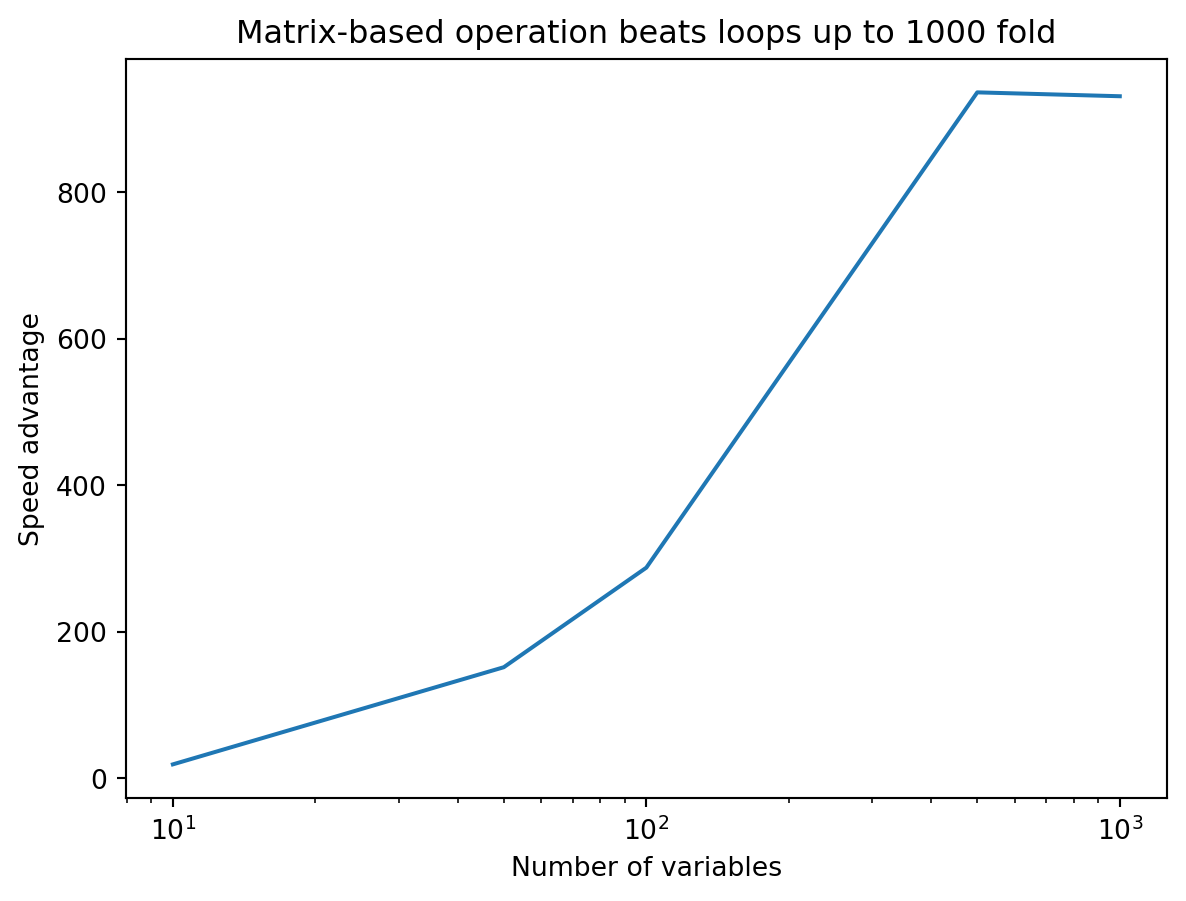
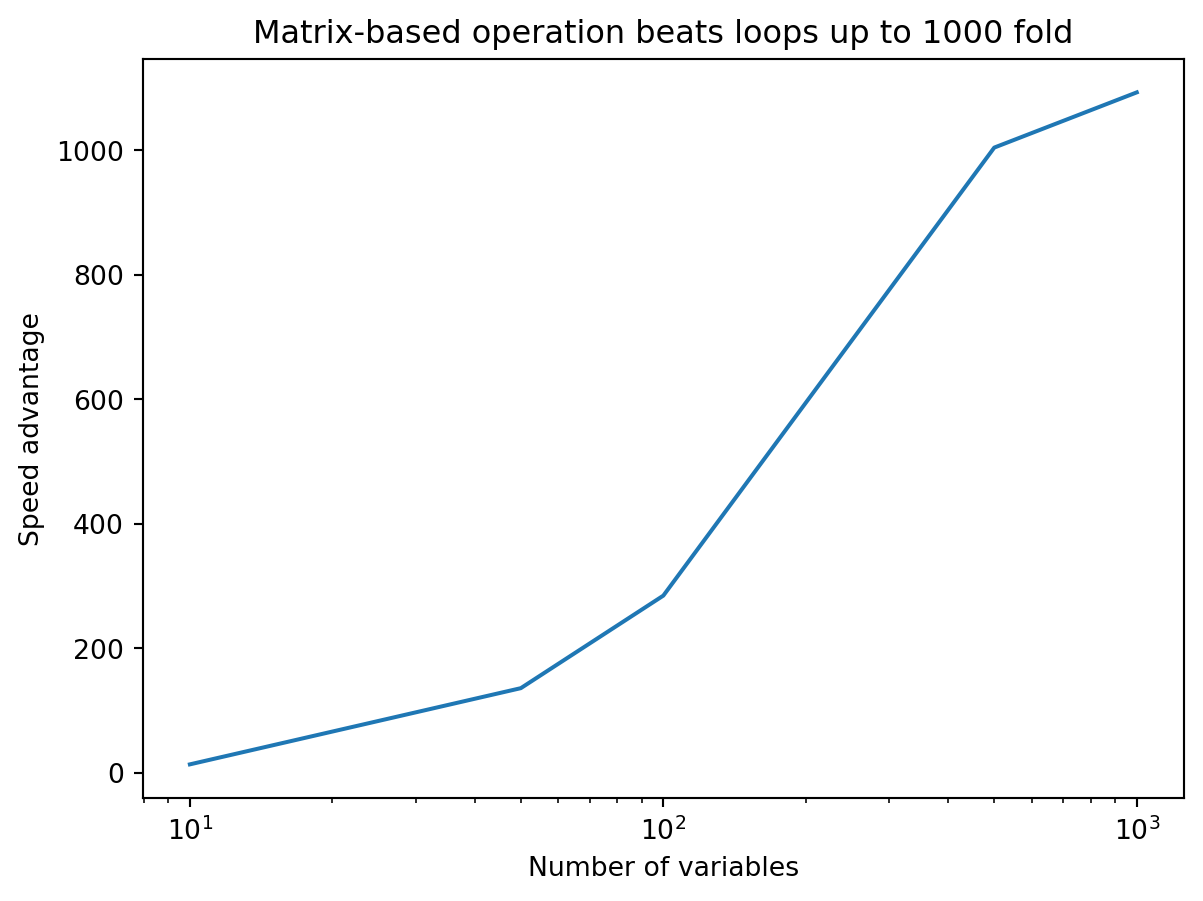
added giscus

diff --git a/docs/posts/masked-arrays/index.html b/docs/posts/masked-arrays/index.html
@@ -174,10 +174,10 @@ code span.wa { color: #60a0b0; font-weight: bold; font-style: italic; } /* Warni
     <div class="quarto-title column-body">
       <h1 class="title">Why masked arrays are useful for data science. Part 1</h1>
                                 <div class="quarto-categories">
-                <div class="quarto-category">numpy</div>
-                <div class="quarto-category">missing data</div>
-                <div class="quarto-category">vectorization</div>
                 <div class="quarto-category">analysis</div>
+                <div class="quarto-category">missing data</div>
+                <div class="quarto-category">numpy</div>
+                <div class="quarto-category">vectorization</div>
               </div>
                   </div>
   </div>
@@ -337,7 +337,7 @@ Person 8       1       1       1       0</code></pre>
 <span id="cb12-6"><a href="#cb12-6" aria-hidden="true" tabindex="-1"></a>toc <span class="op">=</span> perf_counter()</span>
 <span id="cb12-7"><a href="#cb12-7" aria-hidden="true" tabindex="-1"></a><span class="bu">print</span>(<span class="ss">f"Computing all pairwise percentage agreements took </span><span class="sc">{</span>toc<span class="op">-</span>tic<span class="sc">:0.4f}</span><span class="ss"> seconds."</span>)</span></code><button title="Copy to Clipboard" class="code-copy-button"><i class="bi"></i></button></pre></div>
 <div class="cell-output cell-output-stdout">
-<pre><code>Computing all pairwise percentage agreements took 2.3063 seconds.</code></pre>
+<pre><code>Computing all pairwise percentage agreements took 1.8205 seconds.</code></pre>
 </div>
 </div>
 <p>This may not seem so bad. But consider that</p>
@@ -448,28 +448,28 @@ new = \lvert old-1 \rvert
   <tbody>
     <tr>
       <th>10</th>
-      <td>0.000204</td>
-      <td>0.000224</td>
+      <td>0.000194</td>
+      <td>0.000174</td>
     </tr>
     <tr>
       <th>50</th>
-      <td>0.006444</td>
-      <td>0.000238</td>
+      <td>0.005319</td>
+      <td>0.000231</td>
     </tr>
     <tr>
       <th>100</th>
-      <td>0.026645</td>
-      <td>0.000735</td>
+      <td>0.022124</td>
+      <td>0.000632</td>
     </tr>
     <tr>
       <th>500</th>
-      <td>0.523519</td>
-      <td>0.007336</td>
+      <td>0.480564</td>
+      <td>0.006812</td>
     </tr>
     <tr>
       <th>1000</th>
-      <td>2.060766</td>
-      <td>0.024694</td>
+      <td>1.912239</td>
+      <td>0.021706</td>
     </tr>
   </tbody>
 </table>
@@ -705,57 +705,38 @@ Item 4     0.0     NaN     NaN     2.0</code></pre>
 <span id="cb38-4"><a href="#cb38-4" aria-hidden="true" tabindex="-1"></a></span>
 <span id="cb38-5"><a href="#cb38-5" aria-hidden="true" tabindex="-1"></a>seconds_missing <span class="op">=</span> np.zeros((<span class="bu">len</span>(number_variables_large), <span class="dv">2</span>))</span>
 <span id="cb38-6"><a href="#cb38-6" aria-hidden="true" tabindex="-1"></a><span class="cf">for</span> i, nvl <span class="kw">in</span> <span class="bu">enumerate</span>(number_variables_large):</span>
-<span id="cb38-7"><a href="#cb38-7" aria-hidden="true" tabindex="-1"></a>    <span class="bu">print</span>(<span class="bu">str</span>(i) <span class="op">+</span> <span class="st">"</span><span class="ch">\n</span><span class="st">"</span>)</span>
-<span id="cb38-8"><a href="#cb38-8" aria-hidden="true" tabindex="-1"></a>    X <span class="op">=</span> np.random.choice(responses, </span>
-<span id="cb38-9"><a href="#cb38-9" aria-hidden="true" tabindex="-1"></a>                        size<span class="op">=</span>(number_samples_large, nvl), </span>
-<span id="cb38-10"><a href="#cb38-10" aria-hidden="true" tabindex="-1"></a>                        replace<span class="op">=</span><span class="va">True</span>,</span>
-<span id="cb38-11"><a href="#cb38-11" aria-hidden="true" tabindex="-1"></a>                        p<span class="op">=</span>probs)</span>
-<span id="cb38-12"><a href="#cb38-12" aria-hidden="true" tabindex="-1"></a>    tic <span class="op">=</span> perf_counter()<span class="op">;</span> percent_agreement <span class="op">=</span> pa_loop_missing(X)<span class="op">;</span> toc <span class="op">=</span> perf_counter()</span>
-<span id="cb38-13"><a href="#cb38-13" aria-hidden="true" tabindex="-1"></a>    seconds_loop <span class="op">=</span> toc<span class="op">-</span>tic</span>
-<span id="cb38-14"><a href="#cb38-14" aria-hidden="true" tabindex="-1"></a>    tic <span class="op">=</span> perf_counter()<span class="op">;</span> percent_agreement <span class="op">=</span> pa_vect_missing(X)<span class="op">;</span> toc <span class="op">=</span> perf_counter()</span>
-<span id="cb38-15"><a href="#cb38-15" aria-hidden="true" tabindex="-1"></a>    seconds_vect <span class="op">=</span> toc<span class="op">-</span>tic</span>
-<span id="cb38-16"><a href="#cb38-16" aria-hidden="true" tabindex="-1"></a>    seconds_missing[i, <span class="dv">0</span>] <span class="op">=</span> seconds_loop</span>
-<span id="cb38-17"><a href="#cb38-17" aria-hidden="true" tabindex="-1"></a>    seconds_missing[i, <span class="dv">1</span>] <span class="op">=</span> seconds_vect</span>
-<span id="cb38-18"><a href="#cb38-18" aria-hidden="true" tabindex="-1"></a></span>
-<span id="cb38-19"><a href="#cb38-19" aria-hidden="true" tabindex="-1"></a>df_missing <span class="op">=</span> pd.DataFrame(seconds_missing, </span>
-<span id="cb38-20"><a href="#cb38-20" aria-hidden="true" tabindex="-1"></a>                          columns<span class="op">=</span>[<span class="st">'loop'</span>,<span class="st">'vectorized'</span>],</span>
-<span id="cb38-21"><a href="#cb38-21" aria-hidden="true" tabindex="-1"></a>                          index<span class="op">=</span>number_variables_large)</span>
-<span id="cb38-22"><a href="#cb38-22" aria-hidden="true" tabindex="-1"></a></span>
-<span id="cb38-23"><a href="#cb38-23" aria-hidden="true" tabindex="-1"></a>df.plot(loglog<span class="op">=</span><span class="va">True</span>, xlabel<span class="op">=</span><span class="st">"Number of variables"</span>, ylabel<span class="op">=</span><span class="st">"Seconds"</span>)</span>
-<span id="cb38-24"><a href="#cb38-24" aria-hidden="true" tabindex="-1"></a>plt.show()</span></code><button title="Copy to Clipboard" class="code-copy-button"><i class="bi"></i></button></pre></div>
-<div class="cell-output cell-output-stdout">
-<pre><code>0
-
-1
-</code></pre>
-</div>
-<div class="cell-output cell-output-stdout">
-<pre><code>2
-</code></pre>
-</div>
-<div class="cell-output cell-output-stdout">
-<pre><code>3
-</code></pre>
-</div>
-<div class="cell-output cell-output-stdout">
-<pre><code>4
-</code></pre>
-</div>
+<span id="cb38-7"><a href="#cb38-7" aria-hidden="true" tabindex="-1"></a>    X <span class="op">=</span> np.random.choice(responses, </span>
+<span id="cb38-8"><a href="#cb38-8" aria-hidden="true" tabindex="-1"></a>                        size<span class="op">=</span>(number_samples_large, nvl), </span>
+<span id="cb38-9"><a href="#cb38-9" aria-hidden="true" tabindex="-1"></a>                        replace<span class="op">=</span><span class="va">True</span>,</span>
+<span id="cb38-10"><a href="#cb38-10" aria-hidden="true" tabindex="-1"></a>                        p<span class="op">=</span>probs)</span>
+<span id="cb38-11"><a href="#cb38-11" aria-hidden="true" tabindex="-1"></a>    tic <span class="op">=</span> perf_counter()<span class="op">;</span> percent_agreement <span class="op">=</span> pa_loop_missing(X)<span class="op">;</span> toc <span class="op">=</span> perf_counter()</span>
+<span id="cb38-12"><a href="#cb38-12" aria-hidden="true" tabindex="-1"></a>    seconds_loop <span class="op">=</span> toc<span class="op">-</span>tic</span>
+<span id="cb38-13"><a href="#cb38-13" aria-hidden="true" tabindex="-1"></a>    tic <span class="op">=</span> perf_counter()<span class="op">;</span> percent_agreement <span class="op">=</span> pa_vect_missing(X)<span class="op">;</span> toc <span class="op">=</span> perf_counter()</span>
+<span id="cb38-14"><a href="#cb38-14" aria-hidden="true" tabindex="-1"></a>    seconds_vect <span class="op">=</span> toc<span class="op">-</span>tic</span>
+<span id="cb38-15"><a href="#cb38-15" aria-hidden="true" tabindex="-1"></a>    seconds_missing[i, <span class="dv">0</span>] <span class="op">=</span> seconds_loop</span>
+<span id="cb38-16"><a href="#cb38-16" aria-hidden="true" tabindex="-1"></a>    seconds_missing[i, <span class="dv">1</span>] <span class="op">=</span> seconds_vect</span>
+<span id="cb38-17"><a href="#cb38-17" aria-hidden="true" tabindex="-1"></a></span>
+<span id="cb38-18"><a href="#cb38-18" aria-hidden="true" tabindex="-1"></a>df_missing <span class="op">=</span> pd.DataFrame(seconds_missing, </span>
+<span id="cb38-19"><a href="#cb38-19" aria-hidden="true" tabindex="-1"></a>                          columns<span class="op">=</span>[<span class="st">'loop'</span>,<span class="st">'vectorized'</span>],</span>
+<span id="cb38-20"><a href="#cb38-20" aria-hidden="true" tabindex="-1"></a>                          index<span class="op">=</span>number_variables_large)</span>
+<span id="cb38-21"><a href="#cb38-21" aria-hidden="true" tabindex="-1"></a></span>
+<span id="cb38-22"><a href="#cb38-22" aria-hidden="true" tabindex="-1"></a>df.plot(loglog<span class="op">=</span><span class="va">True</span>, xlabel<span class="op">=</span><span class="st">"Number of variables"</span>, ylabel<span class="op">=</span><span class="st">"Seconds"</span>)</span>
+<span id="cb38-23"><a href="#cb38-23" aria-hidden="true" tabindex="-1"></a>plt.show()</span></code><button title="Copy to Clipboard" class="code-copy-button"><i class="bi"></i></button></pre></div>
 <div class="cell-output cell-output-display">
-<p><img src="index_files/figure-html/cell-25-output-5.png" width="599" height="431"></p>
+<p><img src="index_files/figure-html/cell-25-output-1.png" width="599" height="431"></p>
 </div>
 </div>
 <p>Wow, is that an almost 1000-fold speed advantage for matrix-based computation?</p>
 <p>Again let’s show ratios of time taken to see:</p>
 <div class="cell" data-execution_count="25">
-<div class="sourceCode cell-code" id="cb43"><pre class="sourceCode python code-with-copy"><code class="sourceCode python"><span id="cb43-1"><a href="#cb43-1" aria-hidden="true" tabindex="-1"></a>speed_up <span class="op">=</span> seconds_missing[:,<span class="dv">0</span>] <span class="op">/</span> seconds_missing[:,<span class="dv">1</span>]</span>
-<span id="cb43-2"><a href="#cb43-2" aria-hidden="true" tabindex="-1"></a>plt.semilogx(number_variables, speed_up)</span>
-<span id="cb43-3"><a href="#cb43-3" aria-hidden="true" tabindex="-1"></a>plt.xlabel(<span class="st">"Number of variables"</span>)</span>
-<span id="cb43-4"><a href="#cb43-4" aria-hidden="true" tabindex="-1"></a>plt.ylabel(<span class="st">"Speed advantage"</span>)</span>
-<span id="cb43-5"><a href="#cb43-5" aria-hidden="true" tabindex="-1"></a>plt.title(<span class="st">"Matrix-based operation beats loops up to 1000 fold"</span>)</span>
-<span id="cb43-6"><a href="#cb43-6" aria-hidden="true" tabindex="-1"></a>plt.show()</span></code><button title="Copy to Clipboard" class="code-copy-button"><i class="bi"></i></button></pre></div>
+<div class="sourceCode cell-code" id="cb39"><pre class="sourceCode python code-with-copy"><code class="sourceCode python"><span id="cb39-1"><a href="#cb39-1" aria-hidden="true" tabindex="-1"></a>speed_up <span class="op">=</span> seconds_missing[:,<span class="dv">0</span>] <span class="op">/</span> seconds_missing[:,<span class="dv">1</span>]</span>
+<span id="cb39-2"><a href="#cb39-2" aria-hidden="true" tabindex="-1"></a>plt.semilogx(number_variables, speed_up)</span>
+<span id="cb39-3"><a href="#cb39-3" aria-hidden="true" tabindex="-1"></a>plt.xlabel(<span class="st">"Number of variables"</span>)</span>
+<span id="cb39-4"><a href="#cb39-4" aria-hidden="true" tabindex="-1"></a>plt.ylabel(<span class="st">"Speed advantage"</span>)</span>
+<span id="cb39-5"><a href="#cb39-5" aria-hidden="true" tabindex="-1"></a>plt.title(<span class="st">"Matrix-based operation beats loops up to 1000 fold"</span>)</span>
+<span id="cb39-6"><a href="#cb39-6" aria-hidden="true" tabindex="-1"></a>plt.show()</span></code><button title="Copy to Clipboard" class="code-copy-button"><i class="bi"></i></button></pre></div>
 <div class="cell-output cell-output-display">
-<p><img src="index_files/figure-html/cell-26-output-1.png" width="593" height="451"></p>
+<p><img src="index_files/figure-html/cell-26-output-1.png" width="602" height="451"></p>
 </div>
 </div>
 <p>Yes, indeed. An almost 1000-fold speed advantage!</p>
@@ -770,10 +751,10 @@ Item 4     0.0     NaN     NaN     2.0</code></pre>
 <p>I highly recommend the <a href="http://shihchinw.github.io/2019/03/performance-tips-of-numpy-ndarray.html">blog post by Shih-Chin on this topic</a>. It is well written and informative!</p>
 <p>Here I point out one little detail you might have missed in the my data-generation code:</p>
 <div class="cell" data-execution_count="26">
-<div class="sourceCode cell-code" id="cb44"><pre class="sourceCode python code-with-copy"><code class="sourceCode python"><span id="cb44-1"><a href="#cb44-1" aria-hidden="true" tabindex="-1"></a>Xa <span class="op">=</span> np.random.choice([<span class="fl">0.</span>, <span class="fl">1.</span>], size<span class="op">=</span>(<span class="dv">1000</span>, <span class="dv">1000</span>), replace<span class="op">=</span><span class="va">True</span>)</span>
-<span id="cb44-2"><a href="#cb44-2" aria-hidden="true" tabindex="-1"></a>Xb <span class="op">=</span> np.random.choice([<span class="dv">0</span>,  <span class="dv">1</span>],  size<span class="op">=</span>(<span class="dv">1000</span>, <span class="dv">1000</span>), replace<span class="op">=</span><span class="va">True</span>)</span>
-<span id="cb44-3"><a href="#cb44-3" aria-hidden="true" tabindex="-1"></a><span class="bu">print</span>(<span class="ss">f"Xa has data type </span><span class="sc">{</span>Xa<span class="sc">.</span>dtype<span class="sc">}</span><span class="ss">."</span>)</span>
-<span id="cb44-4"><a href="#cb44-4" aria-hidden="true" tabindex="-1"></a><span class="bu">print</span>(<span class="ss">f"Xb has data type </span><span class="sc">{</span>Xb<span class="sc">.</span>dtype<span class="sc">}</span><span class="ss">."</span>)</span></code><button title="Copy to Clipboard" class="code-copy-button"><i class="bi"></i></button></pre></div>
+<div class="sourceCode cell-code" id="cb40"><pre class="sourceCode python code-with-copy"><code class="sourceCode python"><span id="cb40-1"><a href="#cb40-1" aria-hidden="true" tabindex="-1"></a>Xa <span class="op">=</span> np.random.choice([<span class="fl">0.</span>, <span class="fl">1.</span>], size<span class="op">=</span>(<span class="dv">1000</span>, <span class="dv">1000</span>), replace<span class="op">=</span><span class="va">True</span>)</span>
+<span id="cb40-2"><a href="#cb40-2" aria-hidden="true" tabindex="-1"></a>Xb <span class="op">=</span> np.random.choice([<span class="dv">0</span>,  <span class="dv">1</span>],  size<span class="op">=</span>(<span class="dv">1000</span>, <span class="dv">1000</span>), replace<span class="op">=</span><span class="va">True</span>)</span>
+<span id="cb40-3"><a href="#cb40-3" aria-hidden="true" tabindex="-1"></a><span class="bu">print</span>(<span class="ss">f"Xa has data type </span><span class="sc">{</span>Xa<span class="sc">.</span>dtype<span class="sc">}</span><span class="ss">."</span>)</span>
+<span id="cb40-4"><a href="#cb40-4" aria-hidden="true" tabindex="-1"></a><span class="bu">print</span>(<span class="ss">f"Xb has data type </span><span class="sc">{</span>Xb<span class="sc">.</span>dtype<span class="sc">}</span><span class="ss">."</span>)</span></code><button title="Copy to Clipboard" class="code-copy-button"><i class="bi"></i></button></pre></div>
 <div class="cell-output cell-output-stdout">
 <pre><code>Xa has data type float64.
 Xb has data type int64.</code></pre>
@@ -784,42 +765,42 @@ Xb has data type int64.</code></pre>
 <p>As it turns out, this can have an effect on computational speed.</p>
 <p>Let’s see how long it takes to do matrix multiplication on <code>float64</code> with 2 different orders of operation:</p>
 <div class="cell" data-execution_count="27">
-<div class="sourceCode cell-code" id="cb46"><pre class="sourceCode python code-with-copy"><code class="sourceCode python"><span id="cb46-1"><a href="#cb46-1" aria-hidden="true" tabindex="-1"></a><span class="im">import</span> timeit</span>
-<span id="cb46-2"><a href="#cb46-2" aria-hidden="true" tabindex="-1"></a>iterations <span class="op">=</span> <span class="dv">1000</span></span>
-<span id="cb46-3"><a href="#cb46-3" aria-hidden="true" tabindex="-1"></a></span>
-<span id="cb46-4"><a href="#cb46-4" aria-hidden="true" tabindex="-1"></a>setup <span class="op">=</span> <span class="st">"""</span></span>
-<span id="cb46-5"><a href="#cb46-5" aria-hidden="true" tabindex="-1"></a><span class="st">import numpy as np</span></span>
-<span id="cb46-6"><a href="#cb46-6" aria-hidden="true" tabindex="-1"></a><span class="st">Xa = np.random.choice([0., 1.], size=(1000, 1000), replace=True)</span></span>
-<span id="cb46-7"><a href="#cb46-7" aria-hidden="true" tabindex="-1"></a><span class="st">"""</span></span>
-<span id="cb46-8"><a href="#cb46-8" aria-hidden="true" tabindex="-1"></a>tf <span class="op">=</span> timeit.Timer(<span class="st">"np.dot(Xa.transpose(), Xa)"</span>, setup<span class="op">=</span>setup)</span>
-<span id="cb46-9"><a href="#cb46-9" aria-hidden="true" tabindex="-1"></a>sec_order_1 <span class="op">=</span> tf.timeit(number<span class="op">=</span>iterations)<span class="op">/</span>iterations</span>
-<span id="cb46-10"><a href="#cb46-10" aria-hidden="true" tabindex="-1"></a>tf <span class="op">=</span> timeit.Timer(<span class="st">"np.dot(Xa, Xa.transpose())"</span>, setup<span class="op">=</span>setup)</span>
-<span id="cb46-11"><a href="#cb46-11" aria-hidden="true" tabindex="-1"></a>sec_order_2 <span class="op">=</span> tf.timeit(number<span class="op">=</span>iterations)<span class="op">/</span>iterations</span>
-<span id="cb46-12"><a href="#cb46-12" aria-hidden="true" tabindex="-1"></a><span class="bu">print</span>(<span class="ss">f"np.dot(Xa.transpose(), Xa) took </span><span class="sc">{</span>sec_order_1<span class="sc">}</span><span class="ss"> seconds."</span>)</span>
-<span id="cb46-13"><a href="#cb46-13" aria-hidden="true" tabindex="-1"></a><span class="bu">print</span>(<span class="ss">f"np.dot(Xa, Xa.transpose()) took </span><span class="sc">{</span>sec_order_2<span class="sc">}</span><span class="ss"> seconds."</span>)</span></code><button title="Copy to Clipboard" class="code-copy-button"><i class="bi"></i></button></pre></div>
+<div class="sourceCode cell-code" id="cb42"><pre class="sourceCode python code-with-copy"><code class="sourceCode python"><span id="cb42-1"><a href="#cb42-1" aria-hidden="true" tabindex="-1"></a><span class="im">import</span> timeit</span>
+<span id="cb42-2"><a href="#cb42-2" aria-hidden="true" tabindex="-1"></a>iterations <span class="op">=</span> <span class="dv">1000</span></span>
+<span id="cb42-3"><a href="#cb42-3" aria-hidden="true" tabindex="-1"></a></span>
+<span id="cb42-4"><a href="#cb42-4" aria-hidden="true" tabindex="-1"></a>setup <span class="op">=</span> <span class="st">"""</span></span>
+<span id="cb42-5"><a href="#cb42-5" aria-hidden="true" tabindex="-1"></a><span class="st">import numpy as np</span></span>
+<span id="cb42-6"><a href="#cb42-6" aria-hidden="true" tabindex="-1"></a><span class="st">Xa = np.random.choice([0., 1.], size=(1000, 1000), replace=True)</span></span>
+<span id="cb42-7"><a href="#cb42-7" aria-hidden="true" tabindex="-1"></a><span class="st">"""</span></span>
+<span id="cb42-8"><a href="#cb42-8" aria-hidden="true" tabindex="-1"></a>tf <span class="op">=</span> timeit.Timer(<span class="st">"np.dot(Xa.transpose(), Xa)"</span>, setup<span class="op">=</span>setup)</span>
+<span id="cb42-9"><a href="#cb42-9" aria-hidden="true" tabindex="-1"></a>sec_order_1 <span class="op">=</span> tf.timeit(number<span class="op">=</span>iterations)<span class="op">/</span>iterations</span>
+<span id="cb42-10"><a href="#cb42-10" aria-hidden="true" tabindex="-1"></a>tf <span class="op">=</span> timeit.Timer(<span class="st">"np.dot(Xa, Xa.transpose())"</span>, setup<span class="op">=</span>setup)</span>
+<span id="cb42-11"><a href="#cb42-11" aria-hidden="true" tabindex="-1"></a>sec_order_2 <span class="op">=</span> tf.timeit(number<span class="op">=</span>iterations)<span class="op">/</span>iterations</span>
+<span id="cb42-12"><a href="#cb42-12" aria-hidden="true" tabindex="-1"></a><span class="bu">print</span>(<span class="ss">f"np.dot(Xa.transpose(), Xa) took </span><span class="sc">{</span>sec_order_1<span class="sc">}</span><span class="ss"> seconds."</span>)</span>
+<span id="cb42-13"><a href="#cb42-13" aria-hidden="true" tabindex="-1"></a><span class="bu">print</span>(<span class="ss">f"np.dot(Xa, Xa.transpose()) took </span><span class="sc">{</span>sec_order_2<span class="sc">}</span><span class="ss"> seconds."</span>)</span></code><button title="Copy to Clipboard" class="code-copy-button"><i class="bi"></i></button></pre></div>
 <div class="cell-output cell-output-stdout">
-<pre><code>np.dot(Xa.transpose(), Xa) took 0.010427691493000567 seconds.
-np.dot(Xa, Xa.transpose()) took 0.009376382385999932 seconds.</code></pre>
+<pre><code>np.dot(Xa.transpose(), Xa) took 0.011236148388999936 seconds.
+np.dot(Xa, Xa.transpose()) took 0.009502361774999371 seconds.</code></pre>
 </div>
 </div>
 <p>A reader that is familiar with matrix computation will notice that <code>np.dot(Xa, Xa.transpose())</code> does not make sense for our data. The <code>X</code> used in this blog post has samples along rows and variables along columns. So <code>np.dot(Xa, Xa.transpose())</code> would give comparisons of samples not variables. If we had constructed <code>X</code> so that rows and columns were opposite then <code>np.dot(Xa, Xa.transpose())</code> would give us the desired comparisons of variables.</p>
 <p>I included both orders because based on <a href="http://shihchinw.github.io/2019/03/performance-tips-of-numpy-ndarray.html">Shih-Chin discussion of Numpy</a>, I suspected there might be a difference. There is a small difference so I decided to stick to <code>X</code> with variables along columns (and use <code>np.dot(Xa.transpose(), Xa)</code>). That format is in keeping with Pandas format and most data science.</p>
 <p>Now what happens when our data <code>X</code> is <code>int64</code> instead of <code>float64</code>?</p>
 <div class="cell" data-execution_count="28">
-<div class="sourceCode cell-code" id="cb48"><pre class="sourceCode python code-with-copy"><code class="sourceCode python"><span id="cb48-1"><a href="#cb48-1" aria-hidden="true" tabindex="-1"></a>iterations <span class="op">=</span> <span class="dv">50</span></span>
-<span id="cb48-2"><a href="#cb48-2" aria-hidden="true" tabindex="-1"></a>setup <span class="op">=</span> <span class="st">"""</span></span>
-<span id="cb48-3"><a href="#cb48-3" aria-hidden="true" tabindex="-1"></a><span class="st">import numpy as np</span></span>
-<span id="cb48-4"><a href="#cb48-4" aria-hidden="true" tabindex="-1"></a><span class="st">Xb = np.random.choice([0,  1],  size=(1000, 1000), replace=True)</span></span>
-<span id="cb48-5"><a href="#cb48-5" aria-hidden="true" tabindex="-1"></a><span class="st">"""</span></span>
-<span id="cb48-6"><a href="#cb48-6" aria-hidden="true" tabindex="-1"></a>tf <span class="op">=</span> timeit.Timer(<span class="st">"np.dot(Xb.transpose(), Xb)"</span>, setup<span class="op">=</span>setup)</span>
-<span id="cb48-7"><a href="#cb48-7" aria-hidden="true" tabindex="-1"></a>sec_order_1 <span class="op">=</span> tf.timeit(number<span class="op">=</span>iterations)<span class="op">/</span>iterations</span>
-<span id="cb48-8"><a href="#cb48-8" aria-hidden="true" tabindex="-1"></a>tf <span class="op">=</span> timeit.Timer(<span class="st">"np.dot(Xb, Xb.transpose())"</span>, setup<span class="op">=</span>setup)</span>
-<span id="cb48-9"><a href="#cb48-9" aria-hidden="true" tabindex="-1"></a>sec_order_2 <span class="op">=</span> tf.timeit(number<span class="op">=</span>iterations)<span class="op">/</span>iterations</span>
-<span id="cb48-10"><a href="#cb48-10" aria-hidden="true" tabindex="-1"></a><span class="bu">print</span>(<span class="ss">f"np.dot(Xb.transpose(), Xb) took </span><span class="sc">{</span>sec_order_1<span class="sc">}</span><span class="ss"> seconds."</span>)</span>
-<span id="cb48-11"><a href="#cb48-11" aria-hidden="true" tabindex="-1"></a><span class="bu">print</span>(<span class="ss">f"np.dot(Xb, Xb.transpose()) took </span><span class="sc">{</span>sec_order_2<span class="sc">}</span><span class="ss"> seconds."</span>)</span></code><button title="Copy to Clipboard" class="code-copy-button"><i class="bi"></i></button></pre></div>
+<div class="sourceCode cell-code" id="cb44"><pre class="sourceCode python code-with-copy"><code class="sourceCode python"><span id="cb44-1"><a href="#cb44-1" aria-hidden="true" tabindex="-1"></a>iterations <span class="op">=</span> <span class="dv">50</span></span>
+<span id="cb44-2"><a href="#cb44-2" aria-hidden="true" tabindex="-1"></a>setup <span class="op">=</span> <span class="st">"""</span></span>
+<span id="cb44-3"><a href="#cb44-3" aria-hidden="true" tabindex="-1"></a><span class="st">import numpy as np</span></span>
+<span id="cb44-4"><a href="#cb44-4" aria-hidden="true" tabindex="-1"></a><span class="st">Xb = np.random.choice([0,  1],  size=(1000, 1000), replace=True)</span></span>
+<span id="cb44-5"><a href="#cb44-5" aria-hidden="true" tabindex="-1"></a><span class="st">"""</span></span>
+<span id="cb44-6"><a href="#cb44-6" aria-hidden="true" tabindex="-1"></a>tf <span class="op">=</span> timeit.Timer(<span class="st">"np.dot(Xb.transpose(), Xb)"</span>, setup<span class="op">=</span>setup)</span>
+<span id="cb44-7"><a href="#cb44-7" aria-hidden="true" tabindex="-1"></a>sec_order_1 <span class="op">=</span> tf.timeit(number<span class="op">=</span>iterations)<span class="op">/</span>iterations</span>
+<span id="cb44-8"><a href="#cb44-8" aria-hidden="true" tabindex="-1"></a>tf <span class="op">=</span> timeit.Timer(<span class="st">"np.dot(Xb, Xb.transpose())"</span>, setup<span class="op">=</span>setup)</span>
+<span id="cb44-9"><a href="#cb44-9" aria-hidden="true" tabindex="-1"></a>sec_order_2 <span class="op">=</span> tf.timeit(number<span class="op">=</span>iterations)<span class="op">/</span>iterations</span>
+<span id="cb44-10"><a href="#cb44-10" aria-hidden="true" tabindex="-1"></a><span class="bu">print</span>(<span class="ss">f"np.dot(Xb.transpose(), Xb) took </span><span class="sc">{</span>sec_order_1<span class="sc">}</span><span class="ss"> seconds."</span>)</span>
+<span id="cb44-11"><a href="#cb44-11" aria-hidden="true" tabindex="-1"></a><span class="bu">print</span>(<span class="ss">f"np.dot(Xb, Xb.transpose()) took </span><span class="sc">{</span>sec_order_2<span class="sc">}</span><span class="ss"> seconds."</span>)</span></code><button title="Copy to Clipboard" class="code-copy-button"><i class="bi"></i></button></pre></div>
 <div class="cell-output cell-output-stdout">
-<pre><code>np.dot(Xb.transpose(), Xb) took 1.029898840679998 seconds.
-np.dot(Xb, Xb.transpose()) took 0.49530629119999503 seconds.</code></pre>
+<pre><code>np.dot(Xb.transpose(), Xb) took 1.2114148544599994 seconds.
+np.dot(Xb, Xb.transpose()) took 0.5162982579599884 seconds.</code></pre>
 </div>
 </div>
 <p>The most striking thing is that, regardless or operation order, computation of <code>int64</code> data is much slower!</p>
@@ -972,6 +953,8 @@ window.document.addEventListener("DOMContentLoaded", function (event) {
     }
   }
 });
+</script>
+<script src="https://giscus.app/client.js" data-repo="gituser/gitrepo" data-repo-id="" data-category="General" data-category-id="" data-mapping="title" data-reactions-enabled="1" data-emit-metadata="0" data-input-position="top" data-theme="light" data-lang="en" crossorigin="anonymous" async="">
 </script>
 </div> <!-- /content -->
 

diff --git a/docs/index.html b/docs/index.html
@@ -167,7 +167,7 @@ ul.task-list li input[type="checkbox"] {
 
 <div class="quarto-listing quarto-listing-container-default" id="listing-listing">
 <div class="list quarto-listing-default">
-<div class="quarto-post image-right" data-index="0" data-categories="numpy,missing data,vectorization,analysis" data-listing-date-sort="1691524800000" data-listing-file-modified-sort="1691578019086" data-listing-reading-time-sort="22.475">
+<div class="quarto-post image-right" data-index="0" data-categories="analysis,missing data,numpy,vectorization" data-listing-date-sort="1691524800000" data-listing-file-modified-sort="1691650544440" data-listing-reading-time-sort="22.425">
 <div class="body">
 <a href="./posts/masked-arrays/index.html">
 <h3 class="no-anchor listing-title">
@@ -178,17 +178,17 @@ Why masked arrays are useful for data science. Part 1
 </div>
 </a>
 <div class="listing-categories">
-<div class="listing-category" onclick="window.quartoListingCategory('numpy'); return false;">
-numpy
+<div class="listing-category" onclick="window.quartoListingCategory('analysis'); return false;">
+analysis
 </div>
 <div class="listing-category" onclick="window.quartoListingCategory('missing data'); return false;">
 missing data
 </div>
+<div class="listing-category" onclick="window.quartoListingCategory('numpy'); return false;">
+numpy
+</div>
 <div class="listing-category" onclick="window.quartoListingCategory('vectorization'); return false;">
 vectorization
-</div>
-<div class="listing-category" onclick="window.quartoListingCategory('analysis'); return false;">
-analysis
 </div>
 </div>
 <a href="./posts/masked-arrays/index.html">

diff --git a/docs/about.html b/docs/about.html
@@ -134,7 +134,7 @@ ul.task-list li input[type="checkbox"] {
     <i class="bi bi-twitter"></i>
      <span class="about-link-text">Twitter</span>
   </a>
-  <a href="/www.linkedin.com/in/carl-gaspar-63408998" class="about-link">
+  <a href="https://www.linkedin.com/in/carl-gaspar-63408998/" class="about-link">
     <i class="bi bi-linkedin"></i>
      <span class="about-link-text">LinkedIn</span>
   </a>
